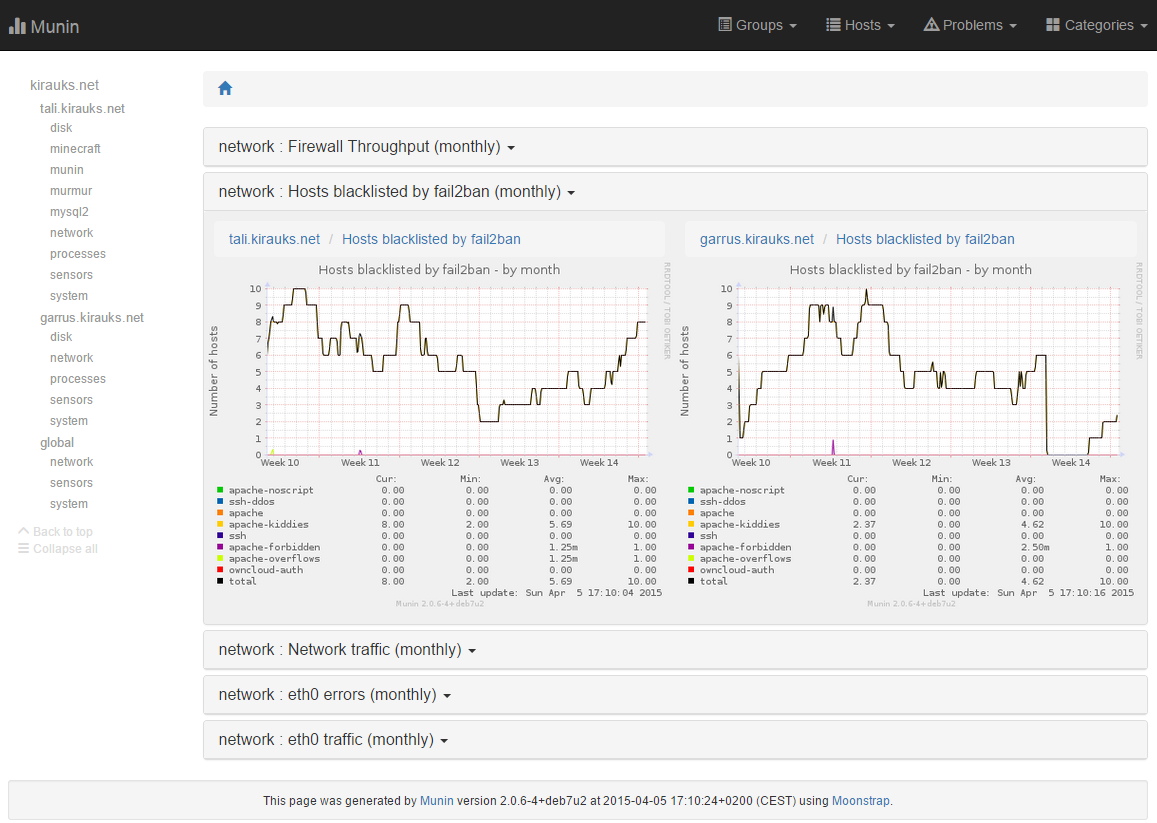
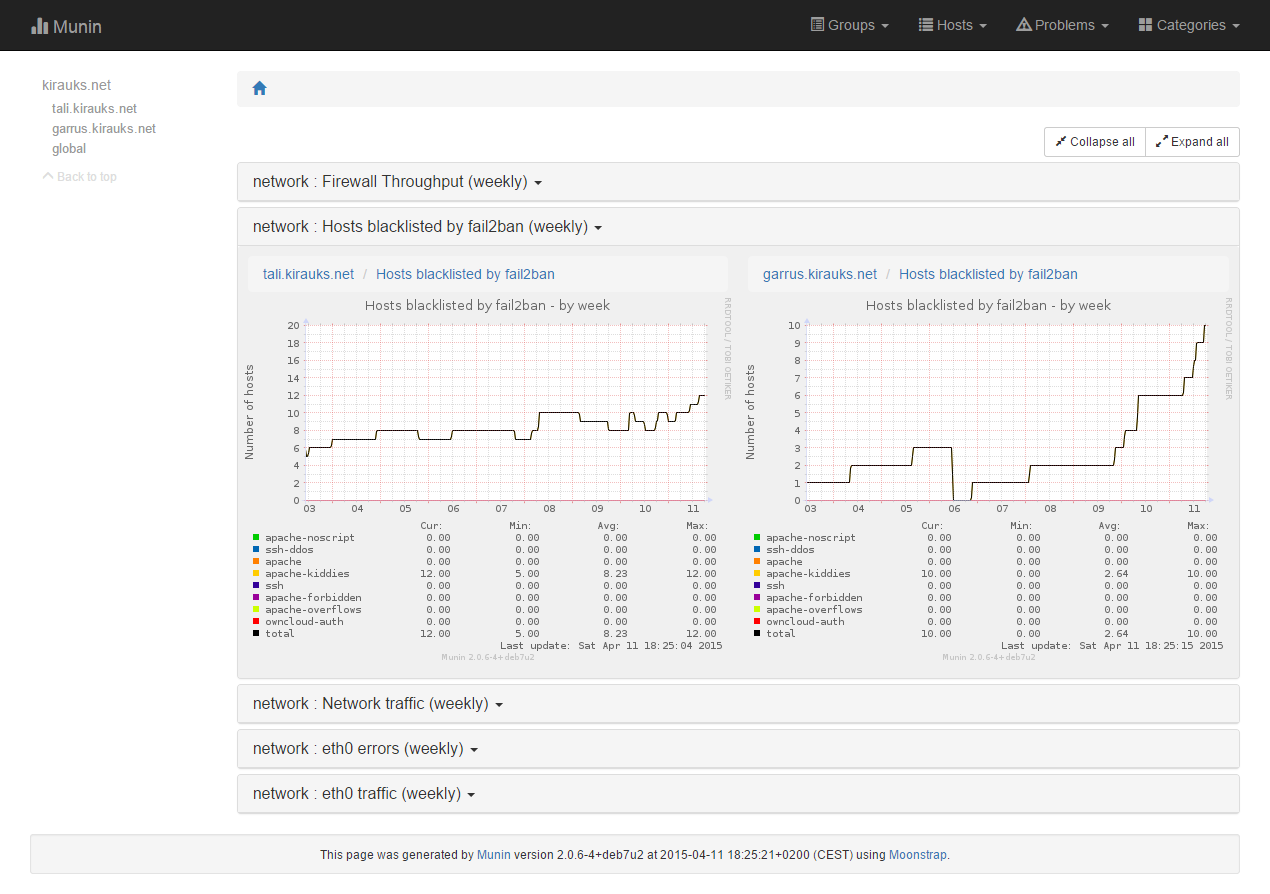
New samples

diff --git a/README.md b/README.md
@@ -92,8 +92,16 @@ To go back to the default template, you can simply comment out the `tmpldir` and
 **Node view:**
 ![Node](docs/sample-nodeview.png)
 
-**Category view:**
+**Category view (weekly comparison):**
 ![Category](docs/sample-categoryview.png)
 
 ### Mobile
+
+**Overview (home):**
+![Overview-Mobile](docs/sample-mobile-overview.png)
+
+**Domain view:**
+![Domain-Mobile](docs/sample-mobile-domainview.png)
+
+**Node view:**
 ![Node-Mobile](docs/sample-mobile-nodeview.png)
